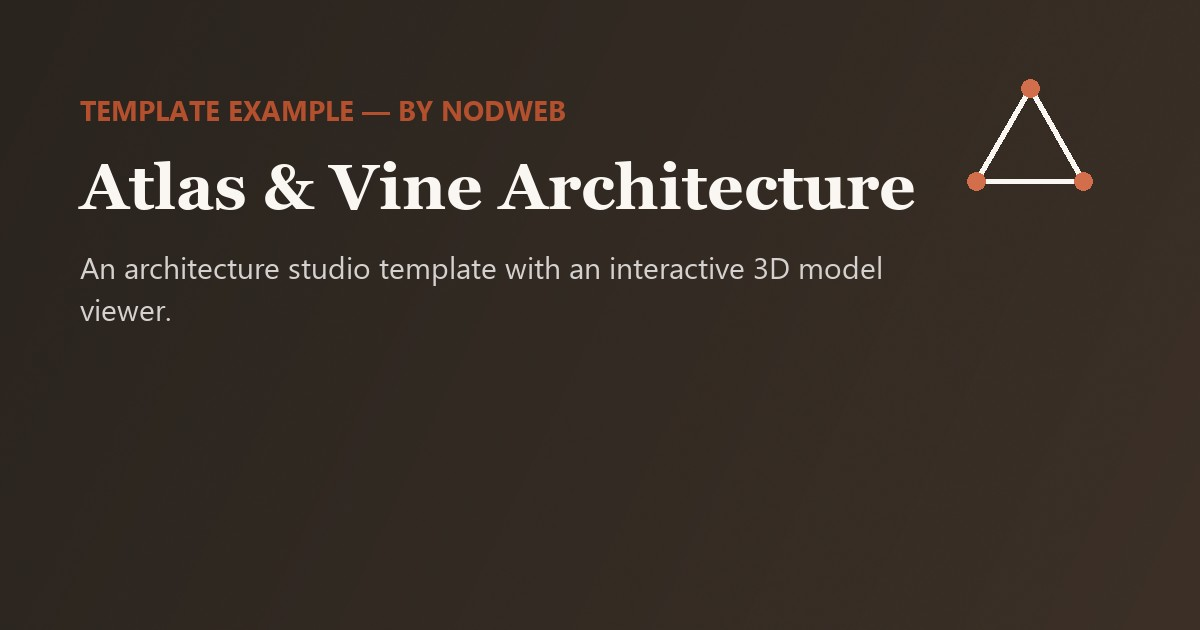
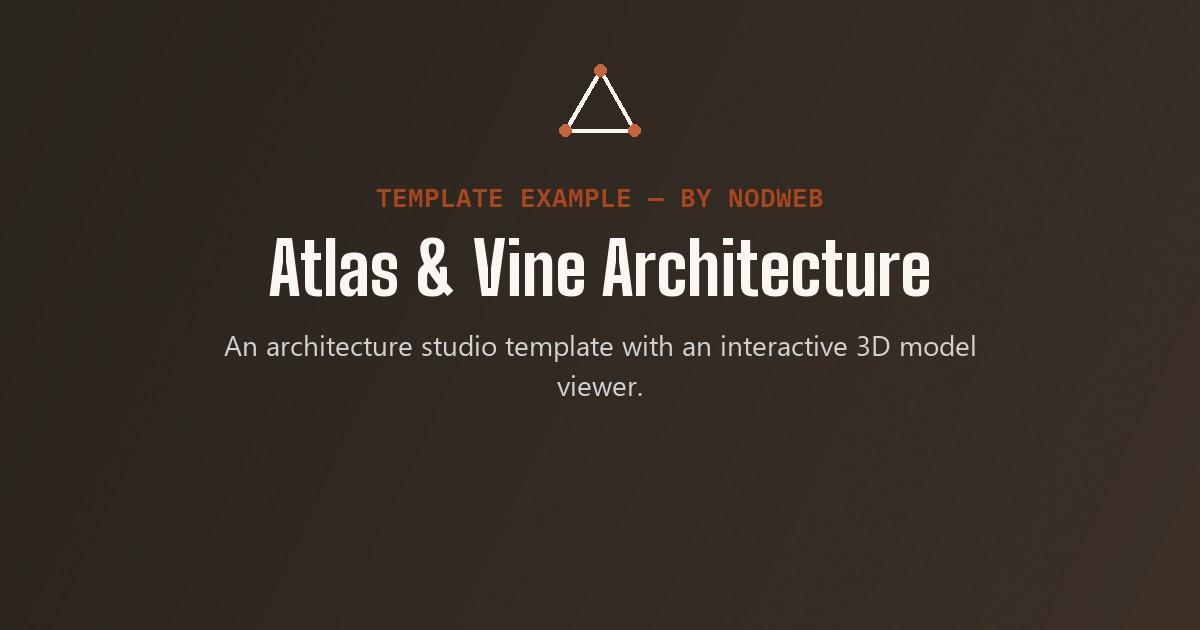
Fix OG/social-share images being cropped unreadable by WhatsApp
WhatsApp (and some other apps) crop link-preview images to a rough
square from the center. The old OG cards left-aligned the wordmark
starting near the left edge, so a center-square crop sliced right
through the middle of "NodWeb" and left mostly empty background —
exactly what showed up when the link was shared.

Center everything (logo, eyebrow, title, subtitle) so a square crop
from the middle still shows the full brand name and tagline. Verified
by simulating the same center-square crop locally before and after.

Also fixes the OG cards to use each site's actual brand font instead
of a generic Georgia/Segoe fallback (Bricolage Grotesque / Big
Shoulders Display / Fraunces, matching the live site exactly) — and
along the way discovered several of these are variable fonts that
default to an unrelated weight (Big Shoulders Display defaults to
Thin), so load_font() now pins the weight/optical-size axis
explicitly instead of trusting the font's default instance.

diff --git a/scripts/generate_images.py b/scripts/generate_images.py
@@ -4,10 +4,12 @@ images, and abstract content placeholders for the two template sites.
 Not part of the deployed site — run once, commit the outputs, delete
 or ignore this script's dependency on Pillow afterward if you like.
 """
+import io
 import math
 import random
 from pathlib import Path
 
+from fontTools.ttLib import TTFont
 from PIL import Image, ImageDraw, ImageFilter, ImageFont
 
 ROOT = Path(__file__).resolve().parent.parent
@@ -15,15 +17,72 @@ ICONS = ROOT / "assets" / "icons"
 OG = ROOT / "assets" / "og"
 IMAGES = ROOT / "assets" / "images"
 FONT_DIR = Path(r"C:\Windows\Fonts")
+BRAND_FONTS_DIR = ROOT / "shared" / "fonts"
 
 GEORGIA_BOLD = str(FONT_DIR / "georgiab.ttf")
 SEGOE = str(FONT_DIR / "segoeui.ttf")
 SEGOE_BOLD = str(FONT_DIR / "segoeuib.ttf")
 
-# ---- Brand palettes -------------------------------------------------
-NODWEB = {"bg": (15, 19, 38), "bg2": (23, 29, 56), "accent": (58, 92, 235), "text": (245, 246, 250)}
-ARCH = {"bg": (39, 33, 28), "bg2": (58, 46, 36), "accent": (181, 80, 47), "text": (250, 247, 243)}
-CAFE = {"bg": (43, 34, 25), "bg2": (61, 47, 33), "accent": (181, 80, 47), "text": (250, 247, 243)}
+_ttf_cache = {}
+
+
+def brand_font_bytes(woff2_name):
+    """Convert one of the site's self-hosted woff2 files (see
+    self_host_fonts.py) to ttf in memory, so ImageFont can load it —
+    Pillow/FreeType can't read woff2 directly. Cached per run."""
+    if woff2_name not in _ttf_cache:
+        font = TTFont(str(BRAND_FONTS_DIR / woff2_name))
+        font.flavor = None
+        buf = io.BytesIO()
+        font.save(buf)
+        _ttf_cache[woff2_name] = buf.getvalue()
+    return _ttf_cache[woff2_name]
+
+
+def load_font(woff2_name, size, weight=None, opsz=None):
+    """Load a brand woff2 as a PIL font, pinning variable-font axes
+    (weight, optical size) to a specific value instead of silently using
+    the font's default instance — several of these brand fonts default
+    to Thin, not the weight the site's CSS renders via font-weight ranges."""
+    font = ImageFont.truetype(io.BytesIO(brand_font_bytes(woff2_name)), size)
+    try:
+        axes = font.get_variation_axes()
+    except OSError:
+        return font  # not a variable font
+    wanted = {"weight": weight, "optical size": opsz}
+    values = []
+    for axis in axes:
+        name = axis["name"].decode().lower() if isinstance(axis["name"], bytes) else axis["name"].lower()
+        values.append(wanted.get(name) if wanted.get(name) is not None else axis["default"])
+    font.set_variation_by_axes(values)
+    return font
+
+
+# Real brand fonts — filenames from shared/fonts/, see self_host_fonts.py —
+# so OG cards match each page's actual typography.
+BRICOLAGE = "bricolage-grotesque-800-normal-2.woff2"
+JETBRAINS_MONO = "jetbrains-mono-700-normal-2.woff2"
+BIG_SHOULDERS = "big-shoulders-display-800-normal-2.woff2"
+IBM_PLEX_MONO = "ibm-plex-mono-600-normal-2.woff2"
+FRAUNCES = "fraunces-700-normal-2.woff2"
+KARLA = "karla-500-normal-2.woff2"
+
+# ---- Brand palettes (colors match each site's actual --color-accent) ----
+NODWEB = {
+    "bg": (15, 19, 38), "bg2": (23, 29, 56), "accent": (109, 135, 255), "text": (245, 246, 250),
+    "title_font": BRICOLAGE, "title_weight": 800, "title_opsz": 96,
+    "label_font": JETBRAINS_MONO, "label_weight": 700,
+}
+ARCH = {
+    "bg": (39, 33, 28), "bg2": (58, 46, 36), "accent": (168, 70, 31), "text": (250, 247, 243),
+    "title_font": BIG_SHOULDERS, "title_weight": 800, "title_opsz": None,
+    "label_font": IBM_PLEX_MONO, "label_weight": None,
+}
+CAFE = {
+    "bg": (43, 34, 25), "bg2": (61, 47, 33), "accent": (189, 91, 44), "text": (250, 247, 243),
+    "title_font": FRAUNCES, "title_weight": 700, "title_opsz": 144,
+    "label_font": KARLA, "label_weight": 500,
+}
 
 
 def lerp(a, b, t):
@@ -108,30 +167,41 @@ def wrap_text(draw, text, font, max_width):
     return lines
 
 
+def centered_text(draw, cy, text, font, fill, canvas_w=1200):
+    w = draw.textlength(text, font=font)
+    draw.text(((canvas_w - w) / 2, cy), text, font=font, fill=fill)
+
+
 def make_og(filename, palette, eyebrow, title, subtitle):
+    # Everything is horizontally centered and kept within the middle ~630px
+    # column: WhatsApp (and some other apps) crop link-preview images to a
+    # roughly square thumbnail from the center, so anything living near the
+    # left/right edges — like a left-aligned wordmark — gets cut off.
     size = (1200, 630)
     img = gradient(size, palette["bg"], palette["bg2"], angle=25)
     img = add_grain(img, amount=5)
     draw = ImageDraw.Draw(img)
 
-    node_mark(draw, 1030, 150, 62, tuple(min(255, c + 30) for c in palette["accent"]), palette["text"], 5)
+    eyebrow_font = load_font(palette["label_font"], 26, weight=palette["label_weight"])
+    title_font = load_font(palette["title_font"], 72, weight=palette["title_weight"], opsz=palette["title_opsz"])
+    sub_font = ImageFont.truetype(SEGOE, 28)
 
-    eyebrow_font = ImageFont.truetype(SEGOE_BOLD, 28)
-    title_font = ImageFont.truetype(GEORGIA_BOLD, 64)
-    sub_font = ImageFont.truetype(SEGOE, 30)
+    mark_accent = tuple(min(255, c + 30) for c in palette["accent"])
+    node_mark(draw, 600, 110, 40, mark_accent, palette["text"], 4)
 
-    draw.text((80, 90), eyebrow.upper(), font=eyebrow_font, fill=palette["accent"])
+    centered_text(draw, 180, eyebrow.upper(), eyebrow_font, palette["accent"])
 
-    lines = wrap_text(draw, title, title_font, 1000)
-    y = 150
-    for line in lines:
-        draw.text((80, y), line, font=title_font, fill=palette["text"])
-        y += 76
+    title_lines = wrap_text(draw, title, title_font, 1000)
+    y = 225
+    for line in title_lines:
+        centered_text(draw, y, line, title_font, palette["text"])
+        y += 84
 
-    y += 20
-    for line in wrap_text(draw, subtitle, sub_font, 900):
-        draw.text((80, y), line, font=sub_font, fill=tuple(int(c * 0.85) for c in palette["text"]))
-        y += 42
+    y += 16
+    sub_lines = wrap_text(draw, subtitle, sub_font, 820)
+    for line in sub_lines:
+        centered_text(draw, y, line, sub_font, tuple(int(c * 0.85) for c in palette["text"]))
+        y += 40
 
     img.save(OG / filename, quality=90)
 

diff --git a/README.md b/README.md
@@ -61,9 +61,15 @@ templates/
                           Linked from the homepage as "The Copper Kettle Café".
 
 scripts/
-  generate_images.py       One-off Pillow script that generated the placeholder
+  generate_images.py       One-off script that generated the placeholder
                             icons/OG images/content images. Not part of the
-                            deployed site (requires `pip install Pillow`).
+                            deployed site (requires `pip install Pillow fonttools`).
+                            OG card text uses the real per-site brand fonts,
+                            converted at runtime from shared/fonts/*.woff2 —
+                            watch for variable-font axes defaulting to an
+                            unwanted weight (e.g. Big Shoulders Display
+                            defaults to Thin); load_font() pins weight/opsz
+                            explicitly rather than trusting the default.
   self_host_fonts.py       One-off script that downloaded the self-hosted font
                             files from Google Fonts and wrote the fonts-*.css
                             files above. Rerun it if a site's font stack changes.
